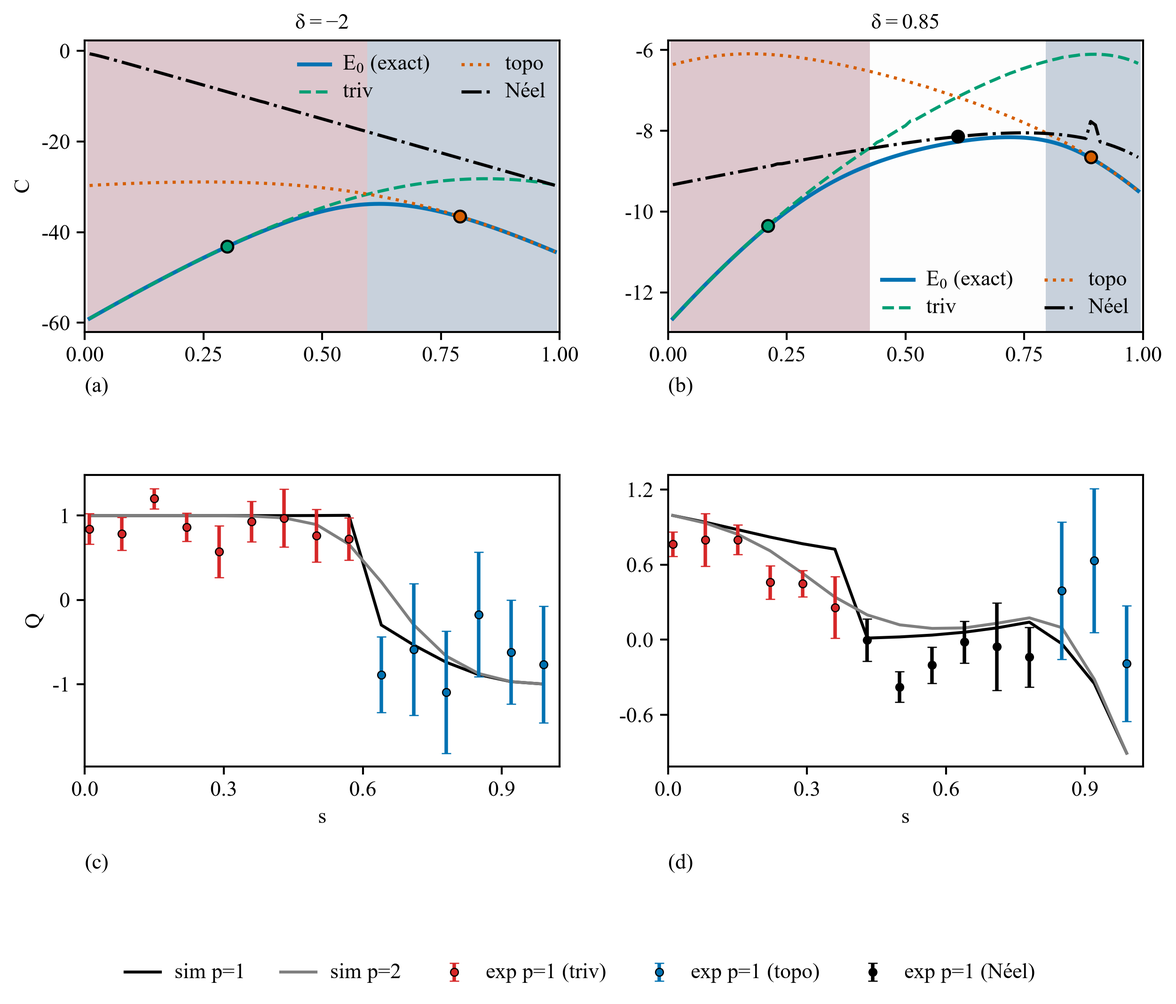
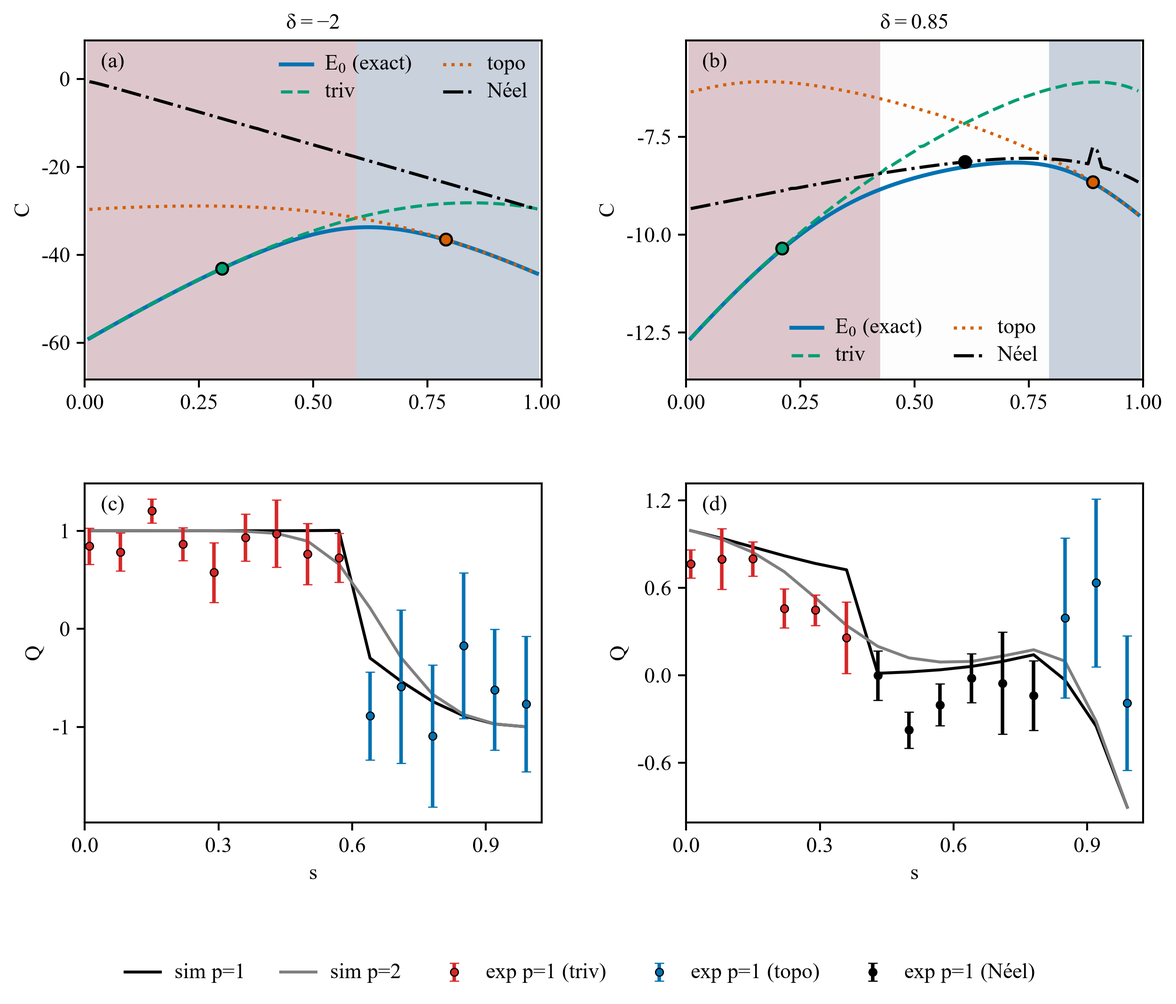
更新论文诊断主线、标题及图4标注
同步中英文稿、作者单位与引用支撑，删除均匀易面点附录小节，并调整图4子图编号与右列纵坐标标签。

diff --git a/project/variational_qc/docs/paper/sections/00-introduction.tex b/project/variational_qc/docs/paper/sections/00-introduction.tex
@@ -1,30 +1,35 @@
 \section{Introduction}
 \label{sec:intro}
 
-Variational quantum eigensolvers use parameterized circuits and classical optimization to approximate low-energy states~\cite{peruzzo2014variational}.
-Experiments on superconducting processors established hardware-efficient implementations for molecules and quantum magnets~\cite{kandala2017hardware}, while subsequent reviews describe the roles of circuit design, measurement cost, and optimization~\cite{cerezo2021variational,tilly2022variational}.
-For topological matter, protecting symmetries and nonlocal correlations guide both circuit design and the choice of observables.
-
+Characterizing topological phases on quantum simulators requires observables that distinguish them from both trivial phases and phases with spontaneous symmetry breaking.
 In one dimension, symmetric gapped spin phases can be distinguished by the projective action of symmetry on entanglement~\cite{chen2011classification,schuch2011classifying}.
 This SPT distinction differs from intrinsic topological order, for which topological entanglement entropy is a diagnostic~\cite{kitaev2006topological,levin2006detecting}.
 The latter has been measured in toric-code states on a superconducting processor~\cite{satzinger2021realizing}.
-Here we study an interacting dimerized spin chain with competing trivial, Haldane-type, and antiferromagnetic (AFM) regimes.
+Here we study the extended Su--Schrieffer--Heeger (SSH) spin model, an interacting dimerized XXZ chain with competing trivial, Haldane-type, and antiferromagnetic (AFM) regimes.
+
+The partial-reflection invariant provides a symmetry-based reference for distinguishing the three regimes in this model~\cite{elben2020manybody}.
+Its direct experimental determination requires access to a reflection overlap together with subsystem purities.
+Randomized-measurement protocols offer a route to these quantities through mirror-correlated local rotations over multiple measurement settings~\cite{elben2020manybody}.
+Direct experimental measurement of the invariant will be addressed in a separate work.
+
+In this work, we instead construct a combined correlation diagnostic $Q$ from two observables accessible in the same $Z$ basis.
+The staggered structure factor identifies AFM correlations, while a cell-string correlation provides complementary information on the trivial and topological dimerized regimes.
+The interpretation of the string correlation follows from the inserted symmetry and the transformation properties of its endpoints~\cite{pollmann2012detection,haegeman2012order}.
+Three reference states fix the affine combination defining $Q$.
+We compare its finite-size phase structure with the partial-reflection marker numerically and use it to probe the prepared states experimentally.
 
 Experiments on Rydberg atoms realized a bosonic SSH SPT phase~\cite{deleseleuc2019observation}.
 Digital experiments have prepared SPT phases with next-nearest-neighbor spin exchange~\cite{tan2023realizing} and simulated larger spin chains using cloud superconducting devices~\cite{yu2023simulating}.
 For variational preparation, Sun \textit{et al.} combined structured initial states and variational layers to study correlated topological phases~\cite{sun2023efficient}.
-These works motivate examining how an initialization and circuit tailored to the model perform when trivial dimerization, topological dimerization, and AFM correlations compete.
+These experiments establish the setting for exploring which features of the phase diagram can be accessed through a single measurement basis.
 
-Measurement choices determine what can be inferred from a prepared state.
-Partial-reflection invariants give a symmetry-based many-body diagnostic~\cite{elben2020manybody}, whereas the interpretation of ordinary string order depends on the inserted symmetry and endpoint operators~\cite{pollmann2012detection,haegeman2012order}.
-We use the partial-reflection invariant for the numerical phase diagram and experimentally measure staggered and cell-string correlations in a single computational basis.
-Three reference states determine the normalization of these correlators and their affine combination $Q$.
-
-In this work, phase-matched initial states and a reflection-symmetric variational circuit provide a common framework for the three regimes.
+To prepare states across the three regimes, we use phase-matched initial states and a reflection-symmetric variational circuit.
+Variational quantum eigensolvers combine parameterized circuits with classical optimization to approximate low-energy states~\cite{peruzzo2014variational}.
+Superconducting experiments established hardware-efficient implementations for molecules and quantum magnets~\cite{kandala2017hardware}; reviews discuss circuit design, measurement cost, and optimization~\cite{cerezo2021variational,tilly2022variational}.
 We optimize the circuits using ideal classical simulations, execute the optimized state-preparation circuits on the Baihua processor, and measure the correlation diagnostics.
-The numerical map is evaluated at $L=8$; a separate symmetry-sector gap calculation at $\delta=-2$ compares five chain lengths.
+The numerical phase map is evaluated at $L=8$; a separate symmetry-sector gap analysis examines finite-size trends along $\delta=-2$.
 Readout mitigation follows the assignment-matrix framework reviewed in Refs.~\cite{endo2021hybrid,cai2023quantum}.
 The experimental analysis compares measured and simulated $Q$ at $30$ scan points.
 
 The following sections develop the model's symmetry classification, finite-size phase diagram, measured diagnostics, circuit construction, readout mitigation, and comparison with experiment.
-The Appendix gives the bulk-theory context and finite-size gap analysis, followed by qubit-screening results.
+The Appendix presents the finite-size gap analysis and qubit-screening results.

diff --git a/project/variational_qc/docs/paper/sections/00-introduction-zh.tex b/project/variational_qc/docs/paper/sections/00-introduction-zh.tex
@@ -1,30 +1,35 @@
 \section{引言}
 \label{sec:intro}
 
-变分量子本征求解器结合参数化电路与经典优化，以近似低能态~\cite{peruzzo2014variational}。
-超导处理器实验已为分子和量子磁体建立硬件高效实现~\cite{kandala2017hardware}，后续综述系统讨论了电路设计、测量成本和优化的作用~\cite{cerezo2021variational,tilly2022variational}。
-对于拓扑物态，保护对称性与非局域关联共同指导电路设计和观测量选择。
-
+在量子模拟器上刻画拓扑相，需要能够将其与平庸相及自发对称破缺相区分的观测量。
 一维对称有能隙自旋相可通过对称性在纠缠空间中的投影作用区分~\cite{chen2011classification,schuch2011classifying}。
 这种 SPT 区分与内禀拓扑序不同，后者可用拓扑纠缠熵诊断~\cite{kitaev2006topological,levin2006detecting}。
 超导处理器已在 toric-code 态中测量该量~\cite{satzinger2021realizing}。
-本文研究具有平庸、Haldane 型和反铁磁（AFM）竞争区域的相互作用二聚化自旋链。
+本文研究扩展 Su--Schrieffer--Heeger（SSH）自旋模型，即具有平庸、Haldane 型和反铁磁（AFM）竞争区域的相互作用二聚化 XXZ 链。
+
+部分反射不变量为区分本模型的三个区域提供基于对称性的参照~\cite{elben2020manybody}。
+直接实验确定该量需要获得反射重叠及子系统纯度。
+已有随机测量协议通过多个测量设置下镜像关联的局域旋转获取这些信息~\cite{elben2020manybody}。
+该不变量的直接实验测量将另文讨论。
+
+本文转而从两个可在同一 $Z$ 基测量的观测量构造组合关联诊断量 $Q$。
+交错结构因子识别 AFM 关联，晶胞 string 关联则提供平庸与拓扑二聚化区域之间的互补区分信息。
+string 关联的解释依据串内插入的对称操作与端点的变换性质~\cite{pollmann2012detection,haegeman2012order}。
+三个参考态确定定义 $Q$ 的仿射组合。
+本文在数值上将其有限尺寸相结构与部分反射标记对照，并在实验中用它探测制备态。
 
 里德伯原子实验实现了玻色 SSH 的 SPT 相~\cite{deleseleuc2019observation}。
 数字实验已在具有次近邻自旋交换的模型中制备 SPT 相~\cite{tan2023realizing}，并利用云端超导设备模拟更长的自旋链~\cite{yu2023simulating}。
 在变分制备方面，Sun 等将结构化初态与变分层结合，研究关联拓扑相~\cite{sun2023efficient}。
-这些工作启发我们考察：当平庸二聚化、拓扑二聚化与 AFM 关联竞争时，依据模型选择的初态和电路能达到何种效果。
+这些实验为考察通过单一测量基能够获取哪些相图特征提供了基础。
 
-测量选择决定了能够从制备态推断哪些性质。
-部分反射不变量提供基于对称性的多体诊断~\cite{elben2020manybody}，普通 string 序的解释则依赖串内对称操作与端点算符~\cite{pollmann2012detection,haegeman2012order}。
-本文以部分反射不变量构造数值相图，在实验中以单一计算基测量交错关联和晶胞 string 关联。
-三个参考态确定这两类关联量的尺度及其仿射组合 $Q$。
-
-本文以相匹配初态和反射对称变分电路为三种区域提供共同框架。
+为制备跨越三个区域的量子态，本文采用相匹配初态与反射对称变分电路。
+变分量子本征求解器结合参数化电路与经典优化，以近似低能态~\cite{peruzzo2014variational}。
+超导处理器实验已为分子和量子磁体建立硬件高效实现~\cite{kandala2017hardware}，相关综述讨论了电路设计、测量成本和优化~\cite{cerezo2021variational,tilly2022variational}。
 在理想经典模拟中优化电路参数后，于百花处理器执行优化后的态制备电路并测量关联诊断量。
-数值相图取 $L=8$；另一组固定 $\delta=-2$ 的对称性扇区能隙计算比较五种链长。
+数值相图取 $L=8$；另以对称性扇区能隙分析考察 $\delta=-2$ 线上的有限尺寸趋势。
 读出缓解采用综述~\cite{endo2021hybrid,cai2023quantum} 所述的分配矩阵框架。
 实验分析比较 $30$ 个扫描点上的实验与数值模拟 $Q$。
 
 下文依次介绍模型的对称性分类、有限尺寸相图、测量诊断量、电路构造、读出缓解及实验与数值模拟对比。
-附录给出体理论背景和有限尺寸能隙分析，再介绍比特筛选结果。
+附录给出有限尺寸能隙分析和比特筛选结果。

diff --git a/project/variational_qc/docs/paper/main.tex b/project/variational_qc/docs/paper/main.tex
@@ -13,25 +13,26 @@
 
 \begin{document}
 
-\title{Variational Quantum State Preparation of the Extended SSH Spin Model\\
+\title{Exploring the Phase Diagram of the Extended Su--Schrieffer--Heeger Spin Model\\
 on a Digital Quantum Processor}
 
 \author{Xue Qiu}\thanks{These authors contributed equally.}
 \author{Yijie Han}\thanks{These authors contributed equally.}
 \author{Yijiang Liang}
-\author{Jinlong Yu}\thanks{Corresponding author.}
-\affiliation{School of Physics and Optoelectronic Engineering, Hainan University, Haikou 570228, China}
+\author{Jinlong Yu}
+\email{Contact author: jinlong.yu.physics@gmail.com}
+\affiliation{Center for Theoretical Physics and School of Physics and Optoelectronic Engineering, Hainan University, Haikou 570228, China}
 
 \date{\today}
 
 \begin{abstract}
-Symmetry-protected phases require diagnostics that connect a prepared state to its protecting symmetry.
-In this work, we study variational state preparation in an open dimerized XXZ chain with competing trivial, topological, and antiferromagnetic regimes.
-We relate the two dimerizations to projective symmetry representations, evaluate a partial-reflection marker for the $L=8$ numerical phase map, and compare finite-size sector gaps with the uniform-chain bulk theory.
-Three reference states are optimized independently with a reflection-symmetric circuit, and the resulting parameters are executed on a superconducting processor.
-The experimental protocol measures staggered and cell-string correlations in the computational basis, with qubit screening and tensor-product readout mitigation.
-An affine combination $Q$, fixed by the reference states, summarizes the parameter dependence of these correlations.
-With fitted marker scales, the displayed $30$-point comparison of $Q$ uses $16\,384$ shots per point and gives a Pearson correlation of $r=0.86$.
+Distinguishing symmetry-protected topological phases from trivial and symmetry-broken phases calls for experimentally accessible diagnostics.
+We study the extended Su--Schrieffer--Heeger (SSH) spin model, represented by an open dimerized XXZ chain, using a combined correlation diagnostic $Q$.
+The antiferromagnetic structure factor identifies staggered order, while a cell-string correlation provides complementary information on the trivial and topological dimerized regimes.
+Calibrated by three reference states, $Q$ displays a three-region structure similar to the partial-reflection marker in an $L=8$ numerical phase map.
+Both constituent observables are obtained from the same $Z$-basis samples, providing a single measurement basis for probing the three regimes and their transition signatures.
+We optimize phase-matched states with a reflection-symmetric variational circuit in ideal classical simulations and execute the circuits on the Baihua superconducting processor with qubit screening and tensor-product readout mitigation.
+With fitted marker scales, the $30$-point experiment--simulation comparison of $Q$ uses $16\,384$ shots per point and gives a Pearson correlation of $r=0.86$.
 \end{abstract}
 
 \maketitle

diff --git a/project/variational_qc/docs/paper/sections/04-heatmaps.tex b/project/variational_qc/docs/paper/sections/04-heatmaps.tex
@@ -35,7 +35,9 @@ For the numerical heatmaps, we use the fixed scales
 \end{equation}
 The structure factor satisfies $0\leq\hat S(\pi)\leq1$; the string sign convention assigns $\hat O_{\rm str}=1$ to the topological reference state.
 
-We combine the two as
+Within the model's ground-state family, the two correlators carry complementary information.
+The staggered structure factor identifies the AFM regime, whereas the cell-string correlation provides contrast between the symmetry-preserving trivial and topological dimerizations.
+We combine them into a single diagnostic,
 \begin{equation}
 Q=\frac43-2\hat O_{\rm str}-\frac43\hat S(\pi).
 \label{eq:Q}
@@ -48,13 +50,14 @@ They set the reference-state scale of $Q$.
 
 Panels (a)--(c) of Fig.~\ref{fig:D04} show $\hat S(\pi)$, $\hat O_{\rm str}$, and $Q$, evaluated on the same grid as the reflection marker.
 The shared grid enables a direct comparison of their parameter dependence.
+The combined diagnostic and the partial-reflection marker display similar three-region structures, with different finite-size transition profiles.
 At $L=8$, Eq.~\eqref{eq:Q} is equivalently $Q=4/3+2O_{\rm str}-S(\pi)/6$.
 
 We choose $Q$ for the experimental scans because both correlators are diagonal in the computational basis: the same bitstrings supply their joint values and covariance, with one measurement basis per prepared circuit.
 For a general prepared state, these basis probabilities alone do not determine $\tilde Z_{\mathcal R}$, which also depends on coherences between reflected spin configurations and on subsystem purities.
 The randomized-measurement protocol of Ref.~\cite{elben2020manybody} accesses the reflection overlap and the normalization purities using mirror-correlated local random rotations over multiple measurement settings.
-Using $Q$ avoids these additional basis settings while combining staggered and cell-string correlations in one experimental diagnostic.
-Its reference-state calibration does not imply general quantization or equivalence to $\tilde Z_{\mathcal R}$; the reflection marker provides the symmetry-based numerical diagnostic, while $Q$ summarizes the measured correlations.
+Using $Q$ avoids these additional basis settings and provides an experimentally accessible alternative for exploring the model's three regimes and their transitions.
+It is a reference-state-calibrated correlation diagnostic, rather than a quantized topological invariant; $\tilde Z_{\mathcal R}$ supplies the symmetry-based numerical reference.
 
 Related approaches use classical shadows to predict observables~\cite{huang2020predicting} and quantum convolutional circuits for phase recognition~\cite{cong2019quantum}.
 Section~\ref{sec:comparison} specifies the separately fitted scales for the experimental data.

diff --git a/project/variational_qc/docs/paper/sections/10-conclusion.tex b/project/variational_qc/docs/paper/sections/10-conclusion.tex
@@ -1,12 +1,15 @@
 \section{Conclusion}
 \label{sec:conclusion}
 
-We studied variational state preparation in the dimerized XXZ chain using phase-matched initial states and a reflection-symmetric circuit.
-A two-site-cell symmetry description connects the dimer limits to distinct projective representations.
-The partial-reflection marker supplies an $L=8$ numerical map, while the sector-gap trend along $\delta=-2$ is consistent with the gapless uniform-chain prediction.
+We explored the phase diagram of the extended SSH spin model through a combined correlation diagnostic accessible in a single $Z$ measurement basis.
+The staggered structure factor identifies AFM correlations, while the cell-string correlation supplies complementary information on the trivial and topological dimerized regimes.
+Their reference-state-calibrated combination $Q$ captures a three-region structure similar to the partial-reflection marker in the $L=8$ numerical map.
+A two-site-cell symmetry description connects the dimer limits to distinct projective representations, and the sector-gap trend along $\delta=-2$ is consistent with the gapless uniform-chain prediction.
 
-The experimental protocol combines cluster-state-based qubit screening, tensor-product readout correction, and computational-basis measurements of staggered and cell-string correlations.
-The reference-state combination $Q$ summarizes the two correlators and their parameter dependence.
+We prepared states with phase-matched initial states and a reflection-symmetric variational circuit, optimized classically and executed on the Baihua processor.
+The experimental protocol combines cluster-state-based qubit screening, tensor-product readout correction, and measurements of both constituent correlators from the same computational-basis samples.
 For the displayed data, the $30$-point experiment--simulation comparison uses $16\,384$ shots per point and gives $r=0.86$ with fitted marker scales.
 
-The framework can be extended to longer chains and additional measurement bases to study the relation between circuit symmetry, entanglement, and SPT correlations.
+The measurement strategy relies on site-resolved spin or equivalent occupation readout.
+Optical-lattice imaging has already accessed nonlocal string correlations~\cite{endres2011observation}, and optical-tweezer Rydberg arrays provide site-resolved readout in a bosonic SSH realization~\cite{deleseleuc2019observation}.
+These capabilities motivate transferring the correlation diagnostic to such simulators when the corresponding spin encoding and reference-state calibration are available.

diff --git a/project/variational_qc/docs/paper/main-zh.tex b/project/variational_qc/docs/paper/main-zh.tex
@@ -17,24 +17,25 @@
 
 \begin{document}
 
-\title{数字量子处理器上扩展 SSH 自旋模型的变分量子态制备}
+\title{数字量子处理器上扩展 Su--Schrieffer--Heeger 自旋模型的相图探索}
 
 \author{邱雪}\thanks{共同第一作者。}
 \author{韩懿杰}\thanks{共同第一作者。}
 \author{梁一江}
-\author{余金龙}\thanks{通讯作者。}
-\affiliation{海南大学物理与光电工程学院，海口 570228}
+\author{余金龙}
+\email{通讯作者：jinlong.yu.physics@gmail.com}
+\affiliation{海南大学理论物理中心与物理与光电工程学院，海口 570228，中国}
 
 \date{\today}
 
 \begin{abstract}
-对称保护拓扑相的诊断需要将制备态与其保护对称性联系起来。
-本文研究具有平庸、拓扑和反铁磁竞争区域的开边界二聚化 XXZ 链的变分态制备。
-通过投影对称表示解释两种二聚化，以部分反射标记构造 $L=8$ 数值相图，并将有限尺寸扇区能隙与均匀链体理论比较。
-三个参考态分别以反射对称电路独立优化，所得参数随后在超导处理器执行。
-实验方案在计算基测量交错关联和晶胞 string 关联，并结合比特筛选与张量积读出缓解。
-由参考态确定的仿射组合 $Q$ 汇总两类关联的参数依赖。
-展示的 $30$ 点 $Q$ 对比每点采用 $16\,384$ shots，在拟合标记尺度下给出 Pearson 相关系数 $r=0.86$。
+在实验中区分对称保护拓扑相、平庸相和对称破缺相，需要易于获取的诊断量。
+本文以组合关联诊断量 $Q$ 研究扩展 Su--Schrieffer--Heeger（SSH）自旋模型，其具体形式为开边界二聚化 XXZ 链。
+反铁磁结构因子识别交错关联，晶胞 string 关联则提供平庸与拓扑二聚化区域之间的互补区分信息。
+经三个参考态标定后，$Q$ 在 $L=8$ 数值相图中呈现与部分反射标记相近的三相区域结构。
+两个组成观测量均由同一组 $Z$ 基样本得到，从而通过单一测量基探测三个区域及其转变特征。
+本文在理想经典模拟中以反射对称变分电路优化相匹配态，并结合比特筛选与张量积读出缓解，在百花超导处理器执行相应电路。
+$30$ 点实验与数值模拟 $Q$ 对比每点采用 $16\,384$ shots，在拟合标记尺度下给出 Pearson 相关系数 $r=0.86$。
 \end{abstract}
 
 \maketitle

diff --git a/project/variational_qc/docs/paper/sections/10-conclusion-zh.tex b/project/variational_qc/docs/paper/sections/10-conclusion-zh.tex
@@ -1,12 +1,15 @@
 \section{结论}
 \label{sec:conclusion}
 
-本文采用相匹配初态和反射对称电路，研究二聚化 XXZ 链的变分态制备。
-两格点晶胞的对称性描述将两种二聚化极限与不同投影表示联系起来。
-部分反射标记给出 $L=8$ 数值相图，$\delta=-2$ 线上的扇区能隙趋势与均匀链无能隙预期一致。
+本文通过可在单一 $Z$ 测量基获取的组合关联诊断量，探索扩展 SSH 自旋模型的相图。
+交错结构因子识别 AFM 关联，晶胞 string 关联则提供平庸与拓扑二聚化区域之间的互补区分信息。
+二者经参考态标定的组合量 $Q$ 在 $L=8$ 数值相图中呈现与部分反射标记相近的三相区域结构。
+两格点晶胞的对称性描述将二聚化极限与不同投影表示联系起来，$\delta=-2$ 线上的扇区能隙趋势与均匀链无能隙预期一致。
 
-实验方案结合基于簇态的比特筛选、张量积读出缓解，以及交错关联和晶胞 string 关联的计算基测量。
-由参考态确定的组合量 $Q$ 汇总这两类关联及其参数依赖。
+本文以相匹配初态和反射对称变分电路制备量子态，在经典计算机上优化参数后于百花处理器执行。
+实验方案结合基于簇态的比特筛选、张量积读出缓解，以及从同一组计算基样本提取两种组成关联量的测量。
 展示的 $30$ 点实验与数值模拟对比每点采用 $16\,384$ shots，在拟合标记尺度下给出 $r=0.86$。
 
-这一框架可扩展到更长的自旋链及更多测量基，用于研究电路对称性、纠缠与 SPT 关联之间的联系。
+这一测量方案依赖逐格点自旋或等效占据读出。
+光晶格成像已用于获取非局域 string 关联~\cite{endres2011observation}，光镊里德伯阵列也在玻色 SSH 实现中提供了逐格点读出~\cite{deleseleuc2019observation}。
+这些能力为将关联诊断迁移到相应模拟器提供了基础，具体应用需具备对应的自旋编码与参考态标定。

diff --git a/project/variational_qc/docs/paper/sections/A-appendix.tex b/project/variational_qc/docs/paper/sections/A-appendix.tex
@@ -1,38 +1,7 @@
 \appendix
 
-\section{Bulk theory and finite-size gap analysis}
+\section{Symmetry-sector gap and finite-size scaling}
 \label{sec:gap}
-
-\subsection{The uniform easy-plane point}
-
-The standard XXZ anisotropy is $\Delta=e^{2\delta}$ [Eq.~\eqref{eq:anisotropy}], while $d=1-2s$ measures bond alternation.
-At $s=1/2$, the Hamiltonian is the uniform antiferromagnetic XXZ chain.
-For $0<\Delta<1$, its bulk low-energy theory is a Tomonaga--Luttinger liquid~\cite{lukyanov1998lowenergy}.
-Using the bosonization convention of Ref.~\cite{takayoshi2010coefficients}, its leading weak-dimerization description is
-\begin{align}
-\mathcal H_{\rm LL}
-&=\frac v2\left[K^{-1}(\partial_x\phi)^2
-+K(\partial_x\vartheta)^2\right],\nonumber\\
-\mathcal H_{\rm dim}
-&=g_d\sin(\sqrt{4\pi}\phi),\qquad
-K=\frac{\pi}{2(\pi-\arccos\Delta)}.
-\label{eq:bosonization}
-\end{align}
-Here $\phi,\vartheta$ are dual fields, $v$ is the velocity, and $g_d$ is proportional to $d$, with a convention-dependent sign.
-The dimer operator has scaling dimension $K$ and is relevant for $K<2$.
-The resulting weak-coupling bulk mass scale obeys
-\begin{equation}
-\Delta_{\rm bulk}\propto |d|^{1/(2-K)}.
-\label{eq:dimer-mass}
-\end{equation}
-The exponent follows from the scaling dimension of the dimer perturbation.
-
-For $\delta=-2$, $\Delta=e^{-4}$ lies in this easy-plane regime, so the gapless uniform point gives an independent bulk-theory basis for $s_c=1/2$.
-At this fixed anisotropy the bulk gap opens with the power-law dimerization dependence in Eq.~\eqref{eq:dimer-mass}; the easy-axis regime instead supports a gapped AFM phase.
-A one-site translation exchanges odd and even bonds in the bulk, while the fixed open boundaries distinguish the two bond terminations.
-Full-chain reflection preserves bond parity.
-
-\subsection{Symmetry-sector gap and finite-size scaling}
 
 We evaluate
 \begin{equation}

diff --git a/project/variational_qc/docs/paper/sections/A-appendix-zh.tex b/project/variational_qc/docs/paper/sections/A-appendix-zh.tex
@@ -1,37 +1,7 @@
 \appendix
 
-\section{体理论与有限尺寸能隙分析}
+\section{对称性扇区能隙与有限尺寸标度}
 \label{sec:gap}
-
-\subsection{均匀易面点}
-
-标准 XXZ 各向异性为 $\Delta=e^{2\delta}$［式~\eqref{eq:anisotropy}］，二聚化参数取 $d=1-2s$。
-$s=1/2$ 时哈密顿量为均匀反铁磁 XXZ 链。
-$0<\Delta<1$ 时其体低能理论为 Tomonaga--Luttinger 液体~\cite{lukyanov1998lowenergy}。
-采用文献~\cite{takayoshi2010coefficients} 的玻色化约定，弱二聚化下的主导描述为
-\begin{align}
-\mathcal H_{\rm LL}
-&=\frac v2\left[K^{-1}(\partial_x\phi)^2
-+K(\partial_x\vartheta)^2\right],\nonumber\\
-\mathcal H_{\rm dim}
-&=g_d\sin(\sqrt{4\pi}\phi),\qquad
-K=\frac{\pi}{2(\pi-\arccos\Delta)}.
-\label{eq:bosonization}
-\end{align}
-其中 $\phi,\vartheta$ 为对偶场，$v$ 为速度，$g_d$ 与 $d$ 成正比，符号取决于约定。
-二聚化算符的标度维数为 $K$，$K<2$ 时是相关扰动，相应弱耦合体能隙的尺度为
-\begin{equation}
-\Delta_{\rm bulk}\propto |d|^{1/(2-K)}.
-\label{eq:dimer-mass}
-\end{equation}
-该指数由二聚化扰动的标度维数导出。
-
-$\delta=-2$ 对应的 $\Delta=e^{-4}$ 位于此易面区域，因此均匀链的无能隙点为 $s_c=1/2$ 提供独立的体理论依据。
-在这一固定各向异性下，体能隙按式~\eqref{eq:dimer-mass} 的幂律随二聚化打开；易轴区域则支持有能隙的 AFM 相。
-体内平移一个格点交换奇偶键，固定开边界则区分两种键端接方式。
-全链反射保持键的奇偶性。
-
-\subsection{对称性扇区能隙与有限尺寸标度}
 
 本文计算
 \begin{equation}

diff --git a/project/variational_qc/scripts/plot_D08D09.py b/project/variational_qc/scripts/plot_D08D09.py
@@ -76,8 +76,8 @@ def draw_d09(ax, d, d09, colors, palette, tag, di, delta):
                 color=LEG_COLOR[LEGS[li]], markeredgecolor="black",
                 markeredgewidth=1.1, markersize=6, linestyle="None", zorder=4)
     ax.set_xlim(0.0, 1.0)
-    if di == 0:
-        ax.set_ylabel(r"$C$")
+    ax.set_ylabel(r"$C$")
+    ax.margins(y=0.16)  # Reserve space above the curves for the panel tag.
     ax.set_title(rf"$\delta={delta:g}$", fontsize=13)
     ax.legend(frameon=False, fontsize=8, loc="best", ncol=2)
 
@@ -107,8 +107,7 @@ def draw_d08(ax, d, d09, manifest, delta):
                     markeredgecolor="black", markeredgewidth=0.6,
                     label=f"exp p=1 ({BAND_LABEL[b]})")
     ax.set_xlim(0.0, 1.025)
-    if delta == -2.0:
-        ax.set_ylabel("$Q$")
+    ax.set_ylabel(r"$Q$")
 
 
 def main():
@@ -142,14 +141,9 @@ def main():
     for ax in axes[1]:
         ax.set_xlabel(r"$s$")
 
-    letters_top = ("(a)", "(b)")
-    for ax, letter in zip(axes[0], letters_top):
-        ax.text(0.0, -0.155, letter, transform=ax.transAxes,
-                fontsize=12, va="top", ha="left", clip_on=False)
-    letters_bot = ("(c)", "(d)")
-    for ax, letter in zip(axes[1], letters_bot):
-        ax.text(0.0, -0.30, letter, transform=ax.transAxes,
-                fontsize=12, va="top", ha="left", clip_on=False)
+    for ax, letter in zip(axes.flat, ("(a)", "(b)", "(c)", "(d)")):
+        ax.text(0.035, 0.965, letter, transform=ax.transAxes,
+                va="top", ha="left")
 
     seen = {}
     for ax in axes[1]:

diff --git a/project/variational_qc/docs/paper/sections/01-model-zh.tex b/project/variational_qc/docs/paper/sections/01-model-zh.tex
@@ -11,7 +11,7 @@ H(s,\delta)=\sum_{j=1}^{L-1}t_j
 \label{eq:H}
 \end{equation}
 其中 $t_{2r-1}=1-s$、$t_{2r}=s$，且 $0\leq s\leq1$。
-交替键沿用 SSH 模型的二聚化结构~\cite{su1979solitons}。
+交替键沿用 Su--Schrieffer--Heeger（SSH）模型的二聚化结构~\cite{su1979solitons}。
 自由费米子能带分类~\cite{ryu2010topological} 提供非相互作用参照；本文的自旋自由度和纵向相互作用对应多体对称性分类。
 
 与文献~\cite{elben2020manybody} 的扩展玻色 SSH 模型对应时，其奇、偶键系数分别为 $J=2(1-s)e^{-\delta}$ 与 $J'=2se^{-\delta}$，各向异性为
